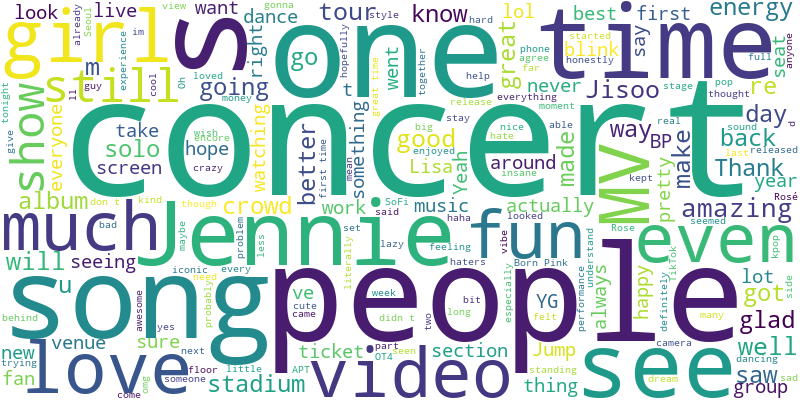
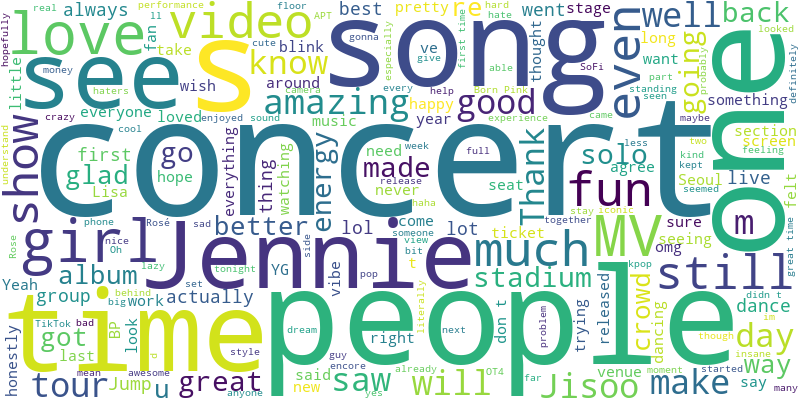
Readme

diff --git a/Project4FE/src/App.tsx b/Project4FE/src/App.tsx
@@ -17,15 +17,15 @@ return (
     <Route path = "/" element={<SignInForm/>} />
 
     
-     {/* <Route path = "/dashboard" element = {<ProtectedRoute><Dashboard /></ProtectedRoute>} />
+     <Route path = "/dashboard" element = {<ProtectedRoute><Dashboard /></ProtectedRoute>} />
     <Route path ="/members/:memberName" element={<ProtectedRoute><MemberPage /></ProtectedRoute>}/>
   <Route path ="/Priority" element={<ProtectedRoute><Priority /></ProtectedRoute>}/>
-  <Route path ="/Artiste" element={<ProtectedRoute><Artiste /></ProtectedRoute>}/>  */}
+  <Route path ="/Artiste" element={<ProtectedRoute><Artiste /></ProtectedRoute>}/> 
 
-   <Route path = "/dashboard" element = {<Dashboard />} />
+   {/* <Route path = "/dashboard" element = {<Dashboard />} />
     <Route path ="/members/:memberName" element={<MemberPage />} />
   <Route path ="/Priority" element={<Priority />} />
-  <Route path ="/Artiste" element={<Artiste />}/>
+  <Route path ="/Artiste" element={<Artiste />}/> */}
 
   </Routes>
 

diff --git a/Project4BE/redditwordcloud.py b/Project4BE/redditwordcloud.py
@@ -37,7 +37,7 @@ def generate_wordcloud(df, output_path="wordcloud.png"):
     all_text = " ".join(df["clean_text"].tolist())
     
     stopwords = set(STOPWORDS) | {
-        "think","need","seems","seem","now","feel","blackpink","deleted","removed","edit",
+       "huo", "think","need","seems","seem","now","feel","blackpink","deleted","removed","edit",
         "comment","post","upvote","downvote","reddit","thread","sub","mods","look"
     }
     

diff --git a/README.md b/README.md
@@ -1,0 +1,93 @@
+# YeoSync
+
+
+## Background and Inspiration
+
+As the Software Engineering bootcamp culminates with this capstone project, I wanted to build an application that combines the knowledge gained throughout the course along with my personal interests. 
+
+Keeping in line with my usual fandom themed projects, I wanted to also incorporate my knowledge of Data Science and a particular field of interest of mine - Natural Language Processing. 
+
+Enter YeoSync
+
+![Logo](images/logowbg.png)
+
+YeoSync = 여론 (Yeo Ron/ Public Opinion) + Sync
+
+An app that serves as a one-stop-shop for idol group managers where managers are able to respond swiftly to public opinion and allocate tasks strategically to boost/maximize the idols' image. Or if you will, SYNC activities to the public opinion.
+
+- Sentiment analysis for both the group as a whole as well as for each member allows the managers to feel the public pulse on the group and its members.
+- Word Cloud collates the buzzwords that are used in public discussions for group and members, allowing members to see trending terms used to talk about the group and its members. 
+- Charts allow managers to look at the distribution of work among the members of the group, by count and by categories. Managers can use this data as well as the insights gained from the sentiment analysis and word cloud to assign as well as redistribute tasks among members accordingly. 
+- Option to "pin" tasks that are of high importance, and the ability to draft notices for them. 
+
+
+## Screenshots
+
+### Login
+![Pricing](images/login.png)
+
+### Home Screen
+![Home Screen](images/homescreen.png)
+![Home Screen](images/homesentimentwordcloud.png)
+
+### Member Page
+
+![Memberpage](images/memberpage.png)
+![Memberpage](images/memberpagesentimentwordcloud.png)
+
+### Priority Page
+![prioritypage](images/prioritypage.png)
+![prioritypage](images/prioritynotice.png)
+
+### Artiste View
+![prioritypage](images/artiste.png)
+
+
+## Technologies Used
+- [Express](https://expressjs.com/)
+- [Node.js](https://nodejs.org/en)
+- [MongoDB Atlas Database](https://www.mongodb.com/products/platform/atlas-database)
+- [Vite](https://vite.dev/)
+- [React](https://react.dev/)
+- [Typescript](https://www.typescriptlang.org/)
+- [Python](https://www.python.org/)
+- [JSPdf](https://www.npmjs.com/package/jspdf)
+
+## UI Libraries Used
+- [React Charts](https://react-chartjs-2.js.org/)
+- [React Big Calendar](https://www.npmjs.com/package/@types/react-big-calendar)
+
+## Python Libraries Used
+- [Textblob](https://textblob.readthedocs.io/en/dev/)
+- [Wordcloud](https://pypi.org/project/wordcloud/)
+- [Pandas](https://pandas.pydata.org/)
+- [Python Reddit API wrapper](https://praw.readthedocs.io/en/stable/)
+
+## APIs Used
+- [Reddit](https://www.reddit.com/dev/api/)
+
+## Links 🔗
+- [Presentation Slides](https://www.canva.com/design/DAGxzWEygAA/ltND3R0hFz1xGL97FM_v8w/edit/)
+
+
+## Acknowledgements
+- Chat GPT for the generation of my logo, and helping with CSS
+- Shao Quan and Wai Hon for being encouraging and constly providing suggestions for improvements
+- SEBPT Coursemates for making the course enjoyable, and the constant sharing of knowledge
+
+
+## Roadmap
+- UI Improvements to map colors to categories
+- Longitudinal data
+- Query capabilities for user to enter a search term to see the buzzwords surrounding it
+- Text summarization for comments
+- Real time notification for artiste when manager updates schedule
+
+
+
+
+
+
+
+
+
